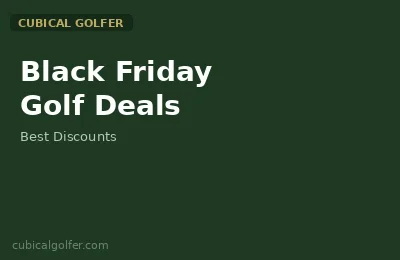
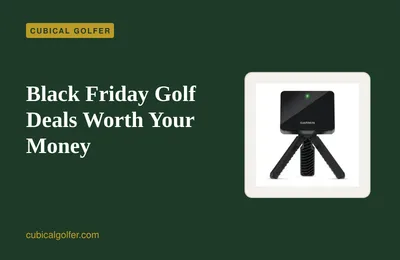
Add files via upload

diff --git a/scripts/generate-article-thumbnails.ts b/scripts/generate-article-thumbnails.ts
@@ -42,7 +42,9 @@ const PLATE = 250, PLATE_X = W - PLATE - 60, PLATE_Y = (H - PLATE) / 2 + 10, IMG
  *
  * If the source table changes, change the figure here too.
  */
-const CHART_ART: Record<string, { title: string; sub: string; stat: string; unit: string; caption: string }> = {
+type ChartArt = { title: string; sub: string; stat: string; unit: string; caption: string };
+
+const CHART_ART: Record<string, ChartArt> = {
   '/golf-green-speed-chart/': {
     title: 'Green Speed Chart', sub: 'What Stimp Does to Your Putt',
     // 20 ft putt rolls 16 ft at stimp 8 and 26 ft at stimp 13
@@ -74,6 +76,48 @@ function statPlate(c: { stat: string; unit: string; caption: string }): string {
           fill="#6A645A">${esc(l)}</text>`).join('')}`;
 }
 
+/**
+ * Sixteen articles carry a hand-made `thumbnail` from before the product-plate
+ * treatment existed. Those cards render as a green panel with an *empty* plate —
+ * a title and a blank rectangle — because build() returns 'skip' the moment an
+ * article declares `thumbnail`, so they were never rebuilt with art.
+ *
+ * Each entry re-points one of them at art chosen for that page's topic while
+ * keeping its existing filename, so every `thumbnail` reference in articles.ts
+ * keeps resolving and no path anywhere changes.
+ *
+ *   key    the product to photograph. Chosen deliberately, NOT the quick-answer
+ *          default: /office-to-golf-course-playbook/ should show a putting mat,
+ *          not the shoes its CTA happens to sell.
+ *   chart  the stat plate instead, for the two pages that have no product at
+ *          all. Both figures are the page's own, from its bottomLine.
+ *   title  a short form, only where the real title overflows three lines and
+ *          would be cut mid-sentence (or leads with an emoji, which does not
+ *          render in an SVG <text> run).
+ */
+const FLAT_CARDS: Record<string, { file: string; key?: string; title?: string; chart?: ChartArt }> = {
+  '/black-friday-golf-deals/':           { file: 'black-friday-deals-thumb.webp',     key: 'garmin-approach-r10' },
+  '/prime-day-golf-deals/':              { file: 'prime-day-deals-thumb.webp',        key: 'garmin-approach-s12' },
+  '/best-electric-golf-cart/':           { file: 'electric-golf-cart-thumb.webp',     key: 'ezgo-rxv-2' },
+  '/best-golf-courses-weekend-drive/':   { file: 'courses-thumb.webp',                key: 'bushnell-tour-v7-shift' },
+  '/golf-course-etiquette/':             { file: 'golf-etiquette-thumb.webp',         key: 'blue-tees-series-3-max' },
+  '/golf-for-beginners/':                { file: 'golf-for-beginners-hub-thumb.webp', key: 'callaway-strata-ultimate-16', title: 'Golf for Beginners' },
+  '/golf-tips-for-beginners/':           { file: 'tips-beginners-thumb.webp',         key: 'callaway-strata' },
+  '/average-golf-handicap/':             { file: 'handicap-thumb.webp',               key: 'arccos-caddie-sensors', title: 'Average Golf Handicap' },
+  '/how-far-average-golfer-hit-7-iron/': { file: 'how-far-7-iron-thumb.webp',         key: 'arccos-caddie-sensors' },
+  '/why-do-i-hit-irons-fat/':            { file: 'hit-irons-fat-thumb.webp',          key: 'fiberbuilt-studio-mat', title: 'Why You Hit Irons Fat' },
+  '/how-to-chip-in-golf/':               { file: 'how-to-chip-thumb.webp',            key: 'cleveland-rtx6-52', title: 'How to Chip in Golf' },
+  '/how-to-stop-topping-the-ball/':      { file: 'stop-topping-thumb.webp',           key: 'alignment-sticks' },
+  '/how-to-sneak-in-more-golf-rounds/':  { file: 'sneak-rounds-thumb.webp',           key: 'bag-boy-nitron' },
+  '/office-to-golf-course-playbook/':    { file: 'office-golf-playbook-thumb.webp',   key: 'sklz-accelerator-putting-mat', title: 'Cubicle-to-Course Playbook' },
+  // No product on either page. Figures taken from each page's own bottomLine:
+  // "The USGA and R&A limit you to 14 clubs" / "your best 8 of your last 20 scores".
+  '/how-many-clubs-in-a-golf-bag/': { file: 'clubs-in-bag-thumb.webp',
+    chart: { title: 'How Many Clubs?', sub: 'The 14-Club Rule', stat: '14', unit: 'max', caption: 'CLUBS ALLOWED IN YOUR BAG' } },
+  '/golf-handicap-explained/': { file: 'handicap-explained-thumb.webp',
+    chart: { title: 'Handicap Explained', sub: 'How the Number Works', stat: '8', unit: 'of 20', caption: 'SCORES THAT SET YOUR INDEX' } },
+};
+
 const esc = (s: string) => s.replace(/&/g, '&amp;').replace(/</g, '&lt;').replace(/>/g, '&gt;');
 
 /** Wrap a title into at most 3 lines that fit the left column. */
@@ -91,18 +135,22 @@ async function build(a: any): Promise<'made' | 'skip' | 'nokey'> {
   // Only articles that declare no thumbnail. Anything with a `thumbnail` field
   // already has art (often under a different filename), and generating a second
   // file would just litter public/ with images nothing references.
-  if (a.thumbnail) return 'skip';
+  const fix = FLAT_CARDS[a.slug];
+  if (!fix && a.thumbnail) return 'skip';
   // Flatten nested slugs (/compare/x/ → compare-x) so no sub-directory is needed.
   const slug = a.slug.replace(/^\/|\/$/g, '').replace(/\//g, '-');
-  const out = path.join(OUT_DIR, `${slug}-thumb.webp`);
+  const out = path.join(OUT_DIR, fix?.file ?? `${slug}-thumb.webp`);
   if (fs.existsSync(out)) return 'skip';
 
-  // Lead product = the article's own quick-answer pick, else its first keyed section.
-  const key = a.quickAnswerProduct
-    || (a.sections ?? []).find((s: any) => s.affiliateKey)?.affiliateKey
-    || (a.comparisonTable?.rows ?? []).find((r: any) => r.affiliateKey)?.affiliateKey;
+  // Lead product = an explicit FLAT_CARDS choice, else the article's own
+  // quick-answer pick, else its first keyed section.
+  const key = fix
+    ? fix.key
+    : (a.quickAnswerProduct
+      || (a.sections ?? []).find((s: any) => s.affiliateKey)?.affiliateKey
+      || (a.comparisonTable?.rows ?? []).find((r: any) => r.affiliateKey)?.affiliateKey);
   const prod: any = key ? (AFFILIATE as any)[key] : null;
-  const chart = CHART_ART[a.slug];
+  const chart = fix?.chart ?? CHART_ART[a.slug];
   if (!prod?.imgSrc && !chart) return 'nokey';
 
   let img: Buffer | null = null, meta: any = null;
@@ -118,7 +166,7 @@ async function build(a: any): Promise<'made' | 'skip' | 'nokey'> {
   // Chart pages use the hand-made card layout: short title top-left, subtitle
   // under it. Product cards keep the original vertically-centred treatment so
   // the 186 already generated stay reproducible.
-  const lines = chart ? wrap(chart.title, 20) : wrap(a.titleDisplay || a.title);
+  const lines = chart ? wrap(chart.title, 20) : wrap(fix?.title || a.titleDisplay || a.title);
   const startY = chart ? 150 : H / 2 - (lines.length - 1) * 26 - 6;
   const svg = `
   <svg width="${W}" height="${H}" xmlns="http://www.w3.org/2000/svg">
